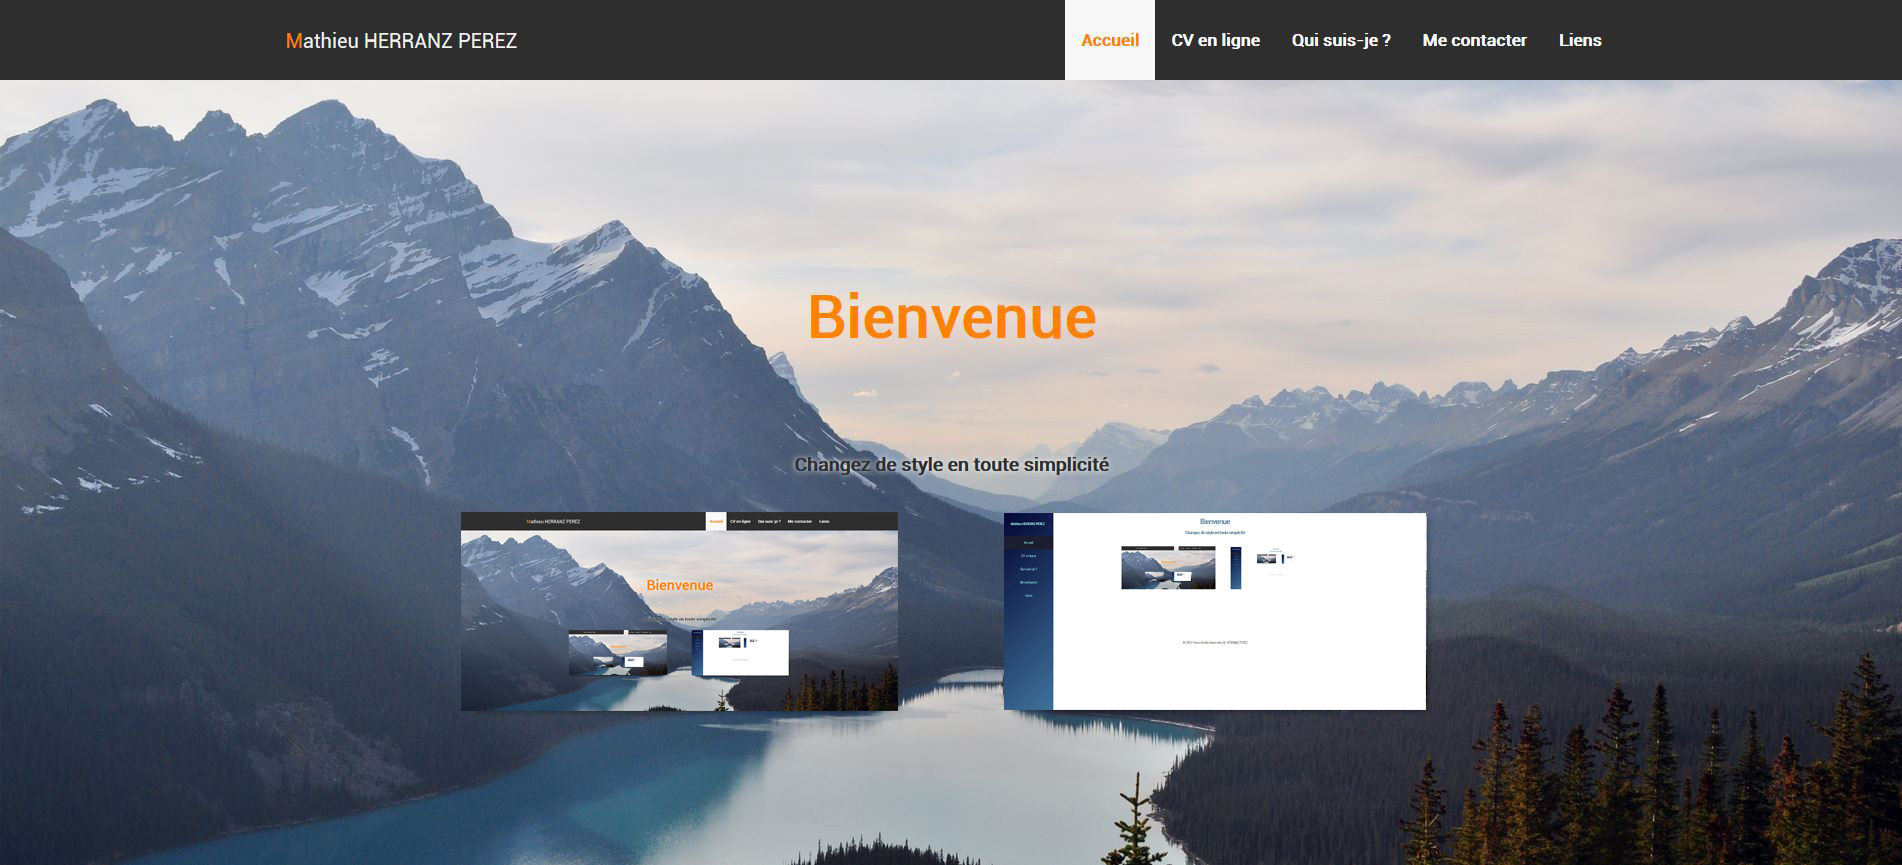
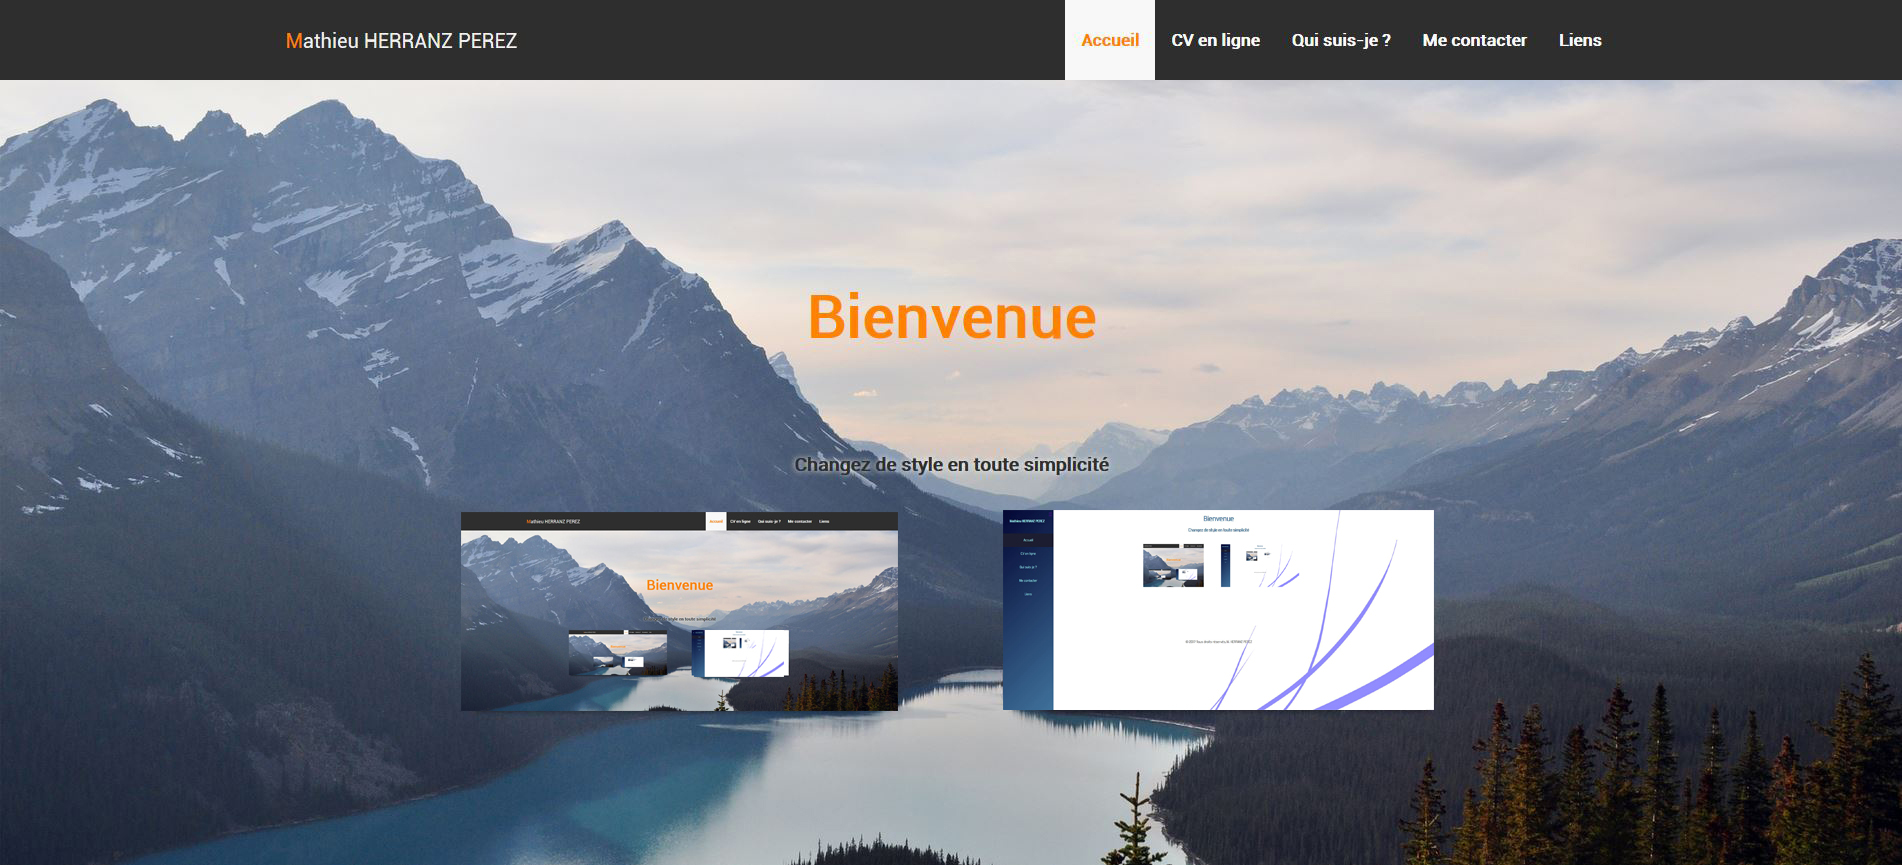
accueil btn+

Changed region(s): [[0.5273, 0.5618, 0.7445, 0.6867], [0.6514, 0.5931, 0.7755, 0.8428], [0.3722, 0.7179, 0.4033, 0.7491]]

diff --git a/css/style2.css b/css/style2.css
@@ -8,8 +8,15 @@ body {
     margin: 0;
     padding: 0;
     color: #575959;
-    min-height: 100%;
+    min-height: 100vh;
+
+
+    background: url("../img/fond22.jpg") no-repeat center,
+                url("../img/fond2.jpg") no-repeat center;
+    background-size: cover;
+    overflow-x: hidden;
 }
+
 a,a:hover,a:link,a:visited,a:active,a:focus{
     text-decoration: none;
     color: #6F05A8;
@@ -231,8 +238,7 @@ div#btnStyle1 {
     margin-right: 20%;
 }
 div#btnStyle1:hover {
-    background: url("../img/style11.jpg") no-repeat center;
-    background-size: cover;
+
 }
 
 div#btnStyle2 {
@@ -240,8 +246,7 @@ div#btnStyle2 {
     background-size: cover;
 }
 div#btnStyle2:hover {
-    background: url("../img/style122.jpg") no-repeat center;
-    background-size: cover;
+
 }
 
 /*------------- CV -------------*/
